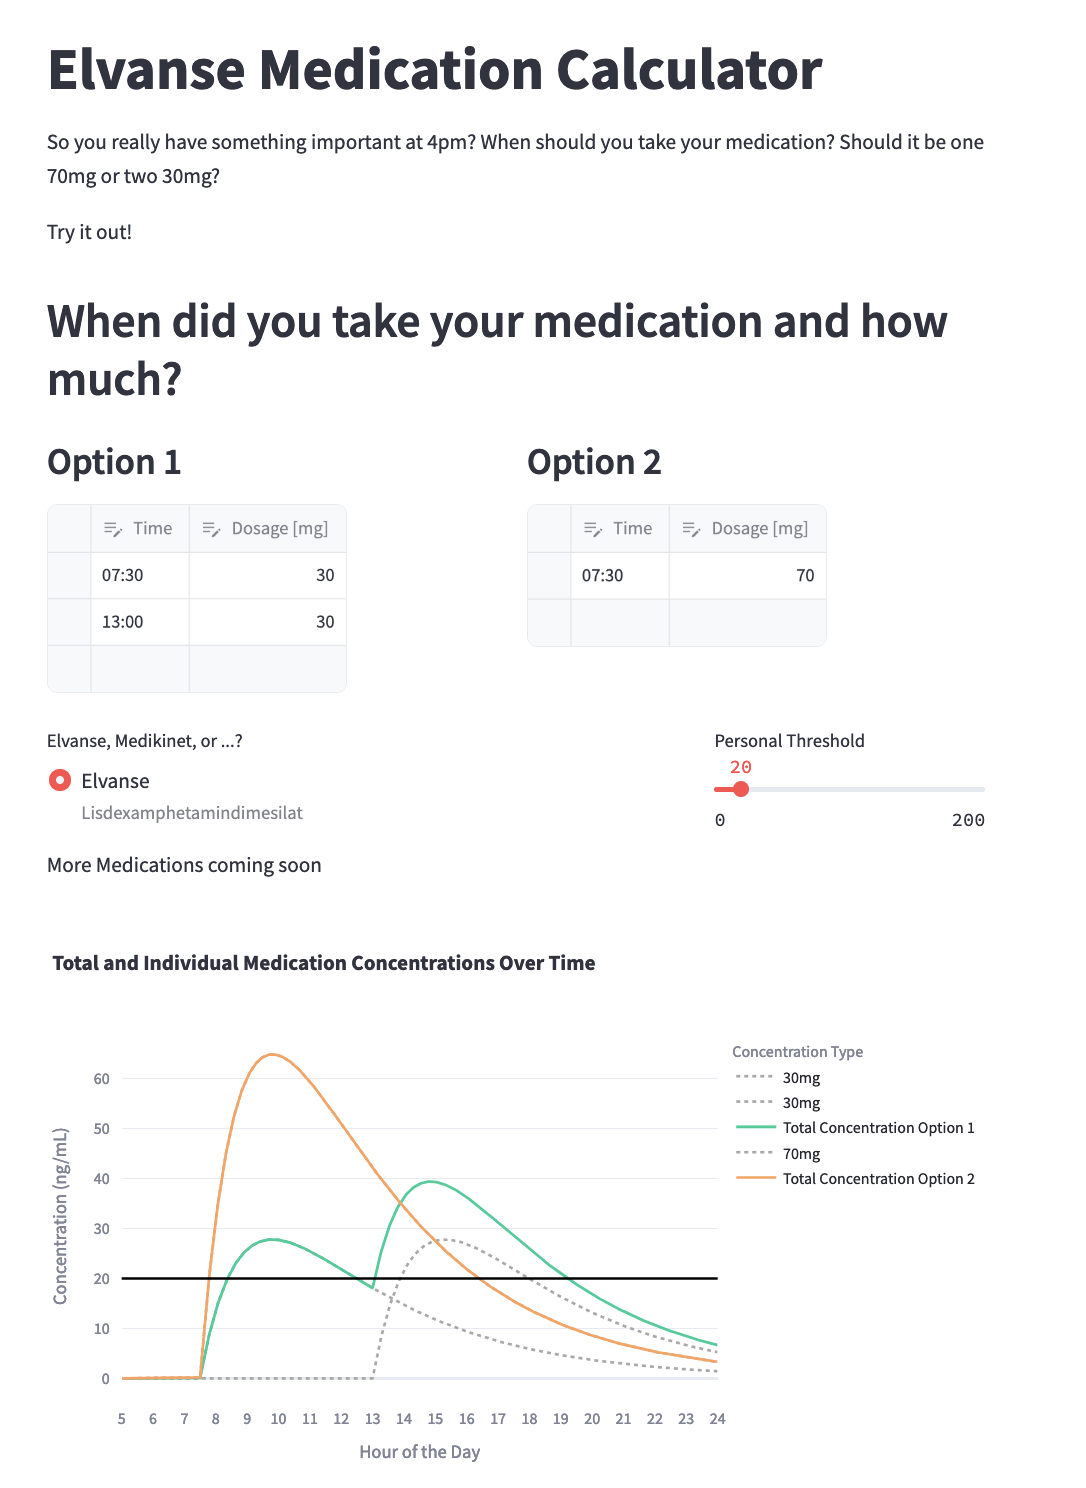
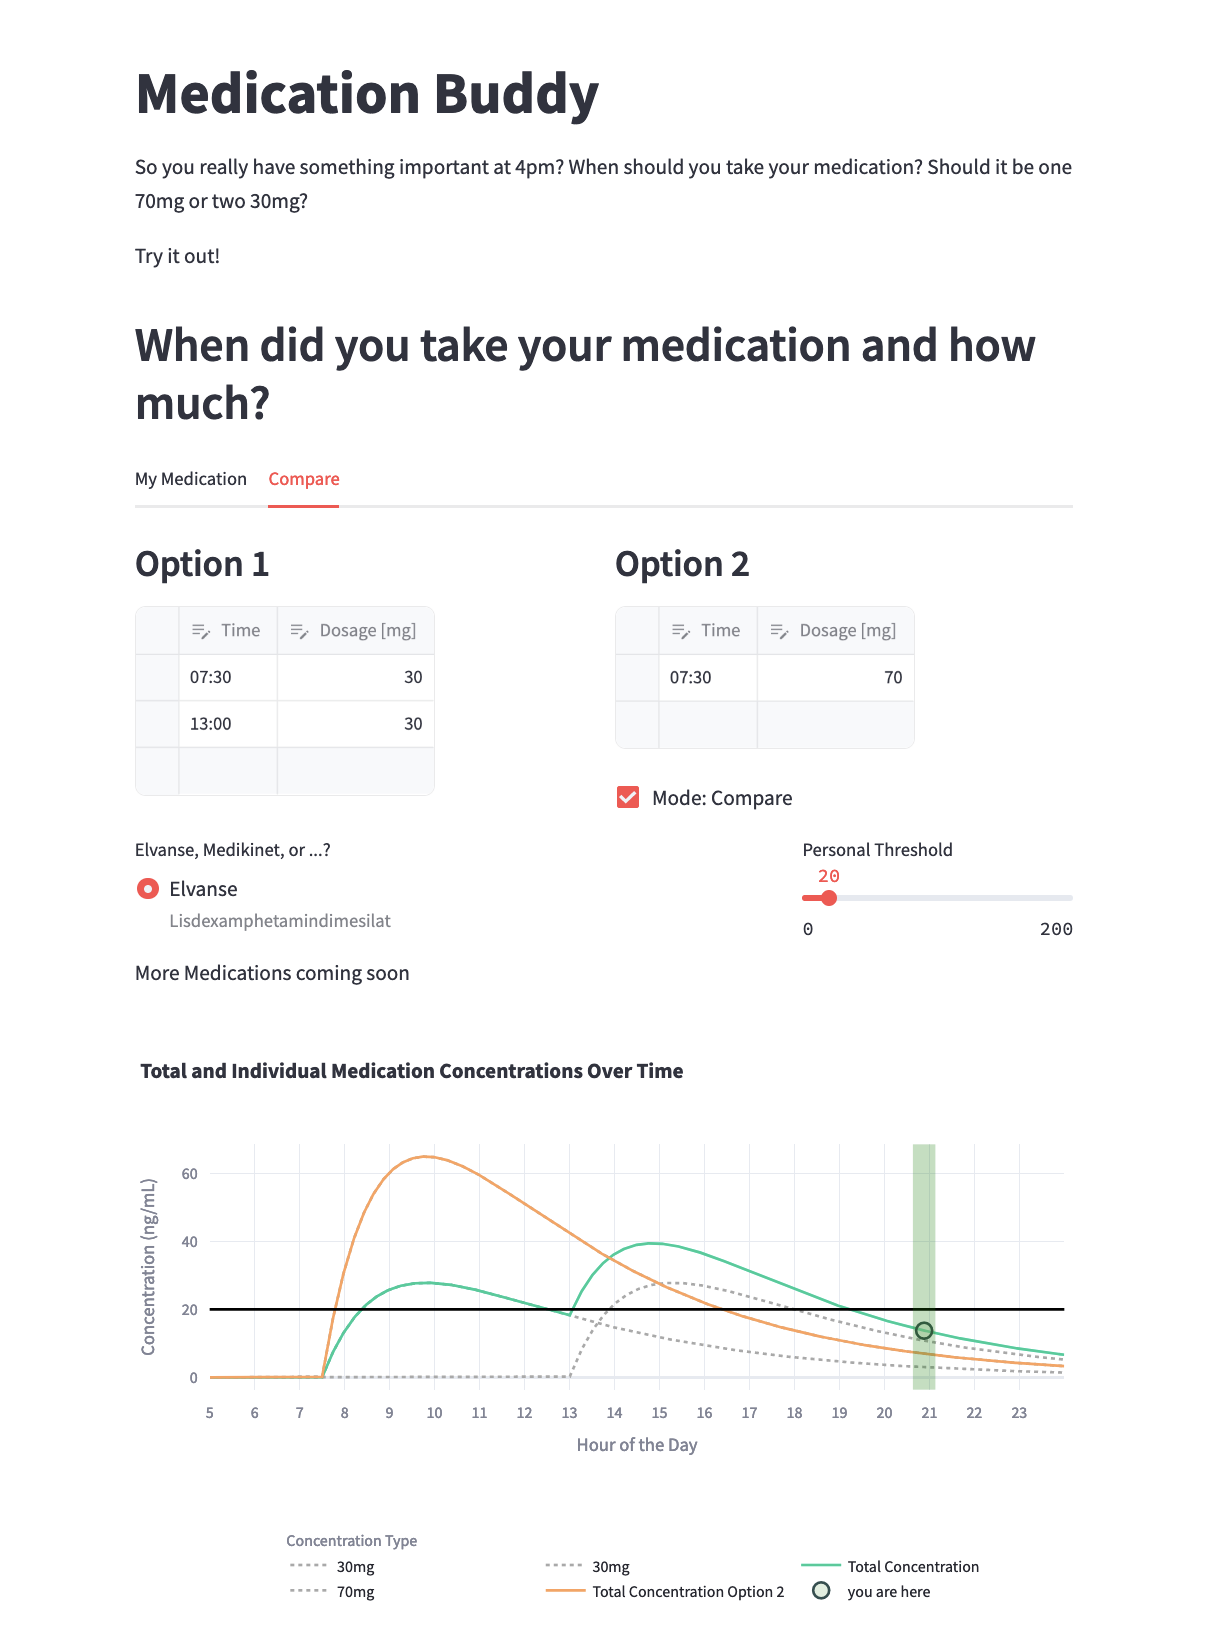
adding single and compare mode. adding scolling on mobile. adding current time indicator

diff --git a/streamlit_app.py b/streamlit_app.py
@@ -1,21 +1,32 @@
 import numpy as np
 import pandas as pd
 import streamlit as st
-from datetime import time
+from datetime import time, datetime
 from fit import calculate_concentrations_and_plot_with_plotly
+import streamlit.components.v1 as components
+from streamlit_javascript import st_javascript
+
+
+window_width = st_javascript("""window.innerWidth;""")
+st.session_state.is_mobile = True if window_width < 600 else False
+st.session_state.current_hour = datetime.now().hour
 
 # Application Title
-st.title("Elvanse Medication Calculator")
+st.title("Medication Buddy")
 
 # Introduction Text
-st.markdown("""
+st.markdown(
+    """
 So you really have something important at 4pm?
 When should you take your medication? 
 Should it be one 70mg or two 30mg?
 
 Try it out!
 ## When did you take your medication and how much?
-""")
+"""
+)
+
+tab1, tab2 = st.tabs(["My Medication", "Compare"])
 
 # Define the DataFrames
 df1 = pd.DataFrame(
@@ -30,7 +41,6 @@ df2 = pd.DataFrame(
         {"time": time(7, 30), "dosis [mg]": 70},
     ]
 )
-
 # Define the Column Configuration for the Data Editors
 column_config = {
     "time": st.column_config.TimeColumn(
@@ -39,7 +49,7 @@ column_config = {
         required=True,
         min_value=time(0, 0),
         max_value=time(23, 59),
-        format="HH:mm"
+        format="HH:mm",
     ),
     "dosis [mg]": st.column_config.NumberColumn(
         "Dosage [mg]",
@@ -48,20 +58,34 @@ column_config = {
         min_value=0,
         max_value=200,
         step=5,
-        format="%d"
-    )
+        format="%d",
+    ),
 }
+with tab1:
+    edited_df1 = st.data_editor(
+        df1,
+        column_config=column_config,
+        num_rows="dynamic",
+        hide_index=True,
+        key="default",
+    )
 
-# Layout for Data Editors
-col1, col2 = st.columns(2, gap="small")
+with tab2:
+    # Layout for Data Editors
+    col1, col2 = st.columns(2, gap="small")
 
-with col1:
-    st.markdown("### Option 1")
-    edited_df1 = st.data_editor(df1, column_config=column_config, num_rows="dynamic", hide_index=True)
+    with col1:
+        st.markdown("### Option 1")
+        edited_df1 = st.data_editor(
+            df1, column_config=column_config, num_rows="dynamic", hide_index=True
+        )
 
-with col2:
-    st.markdown("### Option 2")
-    edited_df2 = st.data_editor(df2, column_config=column_config, num_rows="dynamic", hide_index=True)
+    with col2:
+        st.markdown("### Option 2")
+        edited_df2 = st.data_editor(
+            df2, column_config=column_config, num_rows="dynamic", hide_index=True
+        )
+        compare_mode = st.checkbox("Mode: Compare", value=False, key="compare_mode")
 
 # Layout for Medication Selection and Threshold Slider
 col3, col4 = st.columns([0.7, 0.3])
@@ -70,42 +94,68 @@ with col3:
     medication = st.radio(
         "Elvanse, Medikinet, or ...?",
         ["Elvanse"],
-        captions=["Lisdexamphetamindimesilat"]
+        captions=["Lisdexamphetamindimesilat"],
     )
     st.markdown("More Medications coming soon")
 
 with col4:
-    threshold = st.slider("Personal Threshold", min_value=0, max_value=200, value=20, step=10)
+    threshold = st.slider(
+        "Personal Threshold", min_value=0, max_value=200, value=20, step=10
+    )
+
 
 # Function to Extract Options from DataFrame
 def get_options(df):
-    times = df['time'].apply(lambda x: x.hour + (x.minute / 60)).tolist()
+    times = df["time"].apply(lambda x: x.hour + (x.minute / 60)).tolist()
     doses = df["dosis [mg]"].tolist()
     return [[t, d] for t, d in zip(times, doses)]
+
 
 # Get Options from Edited DataFrames
 options1 = get_options(edited_df1)
 options2 = get_options(edited_df2)
+plot_options = [options1]
+if compare_mode:
+    plot_options.append(options2)
 
 # Calculate Concentrations and Plot
-fig1 = calculate_concentrations_and_plot_with_plotly([options1, options2], threshold)
+fig1 = calculate_concentrations_and_plot_with_plotly(plot_options, threshold)
 
-fig1.update_layout(
-    height=600,
-    legend=dict(
-        orientation="h",
-        yanchor="bottom",
-        y=-0.4,
-        xanchor="center",
-        x=0.5
+if st.session_state.is_mobile:
+    # factor = 300./float(window_width)
+    # print(factor)
+    legend = dict(orientation="h", yanchor="bottom", y=-1.9, xanchor="center", x=0.5)
+    h = st.session_state.current_hour
+    delta = 2.2
+    xrange = [h - delta, h + delta]
+    xaxis = dict(
+        range=xrange,
+        rangeslider=dict(
+            visible=True,
+        ),
+        type="linear",
     )
+else:
+    legend = dict(orientation="h", yanchor="bottom", y=-0.9, xanchor="center", x=0.5)
+    xaxis = dict(
+        # range=range,
+        # rangeslider=dict(
+        #     visible=True,
+        # ),
+        type="linear"
+    )
+fig1.update_layout(
+    dragmode="pan",
+    legend=legend,
+    xaxis=xaxis,
 )
 
-# Display Plot
-st.plotly_chart(fig1, use_container_width=True, theme="streamlit")
+# st.markdown("**Total and Individual Medication Concentrations Over Time**")
+st.plotly_chart(fig1, use_container_width=False, theme="streamlit")
 
 # Add CSS to make it nicer on mobile
-st.markdown("""
+st.markdown(
+    """
 <style>
     .stApp {
         max-width: 100% !important;
@@ -123,4 +173,6 @@ st.markdown("""
         }
     }
 </style>
-""", unsafe_allow_html=True)
+""",
+    unsafe_allow_html=True,
+)

diff --git a/fit.py b/fit.py
@@ -1,17 +1,21 @@
 import numpy as np
 import plotly.graph_objects as go
 from plotly.subplots import make_subplots
+from datetime import datetime
 
 # These were calculated from data
 PARAMS = (4.816931830999022, 0.23815199140828144, 0.7144975482181155)
+
 
 # Define the bi-exponential model
 def bi_exponential(t, Cmax, Ka, Ke):
     return (Cmax * Ka / (Ka - Ke)) * (np.exp(-Ke * t) - np.exp(-Ka * t))
 
+
 # Function to calculate model predictions using the fitted parameters
 def predict_concentration(t, Cmax, Ka, Ke, dose):
     return bi_exponential(t, Cmax, Ka, Ke) * dose
+
 
 # Function to calculate total and individual concentrations over time
 def total_and_individual_concentration_over_time(dose_times, params):
@@ -35,15 +39,23 @@ def total_and_individual_concentration_over_time(dose_times, params):
 
     return time_array, total_concentration, individual_concentrations
 
+
 # Function to calculate concentrations and plot with Plotly
 def calculate_concentrations_and_plot_with_plotly(dose_time_options, threshold=30):
-    fig = make_subplots(rows=1, cols=1)
+    # fig = make_subplots(rows=1, cols=1)
+    fig = fig = go.Figure(
+        # layout=dict(autosize=False,
+        #             width=2000,
+        # height=600,
+        # margin=dict(l=50, r=50, b=50, t=50, pad=4),
+        # )
+    )
 
     for i, dose_times in enumerate(dose_time_options, 1):
         time_array, total_concentration, individual_concentrations = (
             total_and_individual_concentration_over_time(dose_times, PARAMS)
         )
-        
+
         # Adding individual concentration traces
         for j, concentration in enumerate(individual_concentrations, start=1):
             fig.add_trace(
@@ -54,25 +66,68 @@ def calculate_concentrations_and_plot_with_plotly(dose_time_options, threshold=3
                     name=f"{dose_times[j-1][1]}mg",
                     line=dict(dash="dot", color="darkgrey"),
                 ),
-                row=1,
-                col=1,
+                # row=1,
+                # col=1,
             )
-        
+
         # Adding total concentration trace
+        if i == 1:
+            name = "Total Concentration"
+        else:
+            name = f"Total Concentration Option {i}"
         fig.add_trace(
             go.Scatter(
                 x=time_array,
                 y=total_concentration,
                 mode="lines",
-                name=f"Total Concentration Option {i}",
+                name=name,
                 line=dict(width=2),
             ),
-            row=1,
-            col=1,
+            # row=1,
+            # col=1,
         )
 
     # Adding a horizontal line for the threshold concentration
-    fig.add_hline(y=threshold, line_color="black", line_width=2, row=1, col=1)
+    fig.add_hline(
+        y=threshold,
+        line_color="black",
+        line_width=2,
+        #   row=1, col=1
+    )
+    # Adding a vertical rectangle to highlight the current time
+    time_array, total_concentration, individual_concentrations = (
+        total_and_individual_concentration_over_time(dose_time_options[0], PARAMS)
+    )
+    hour = datetime.now().hour
+    minutes = datetime.now().minute
+    xtime = hour + (minutes / 60)
+    delta = 0.25
+    # get y coordinate of xtime using numpy:
+    xindex = np.searchsorted(time_array, xtime)
+    ytime = total_concentration[xindex]
+
+    fig.add_vrect(
+        x0=xtime - delta,
+        x1=xtime + delta,
+        #   annotation_text="decline", annotation_position="top left",
+        fillcolor="green",
+        opacity=0.25,
+        line_width=0,
+    )
+    fig.add_trace(
+        go.Scatter(
+            x=[xtime],
+            y=[ytime],
+            mode="markers",
+            marker=dict(
+                size=12,
+                #    color=None,
+                color="rgba(191,223,191, 0.5)",
+                line=dict(width=2, color="DarkSlateGrey"),
+            ),
+            name="you are here",
+        )
+    )
 
     # Updating layout to make it look nice
     fig.update_layout(
@@ -80,7 +135,7 @@ def calculate_concentrations_and_plot_with_plotly(dose_time_options, threshold=3
         xaxis_title="Hour of the Day",
         yaxis_title="Concentration (ng/mL)",
         legend_title="Concentration Type",
-        xaxis=dict(range=[5, 24], dtick=1),  # Hourly ticks from 5 to 24
+        xaxis=dict(range=[5, 24], dtick=1, showgrid=True),  # Hourly ticks from 5 to 24
         template="plotly_white",
     )
 
